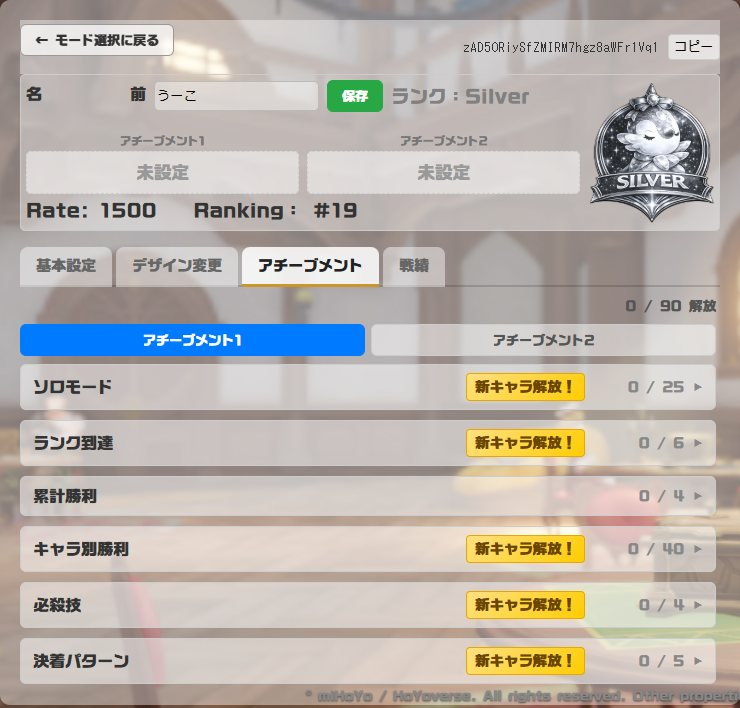
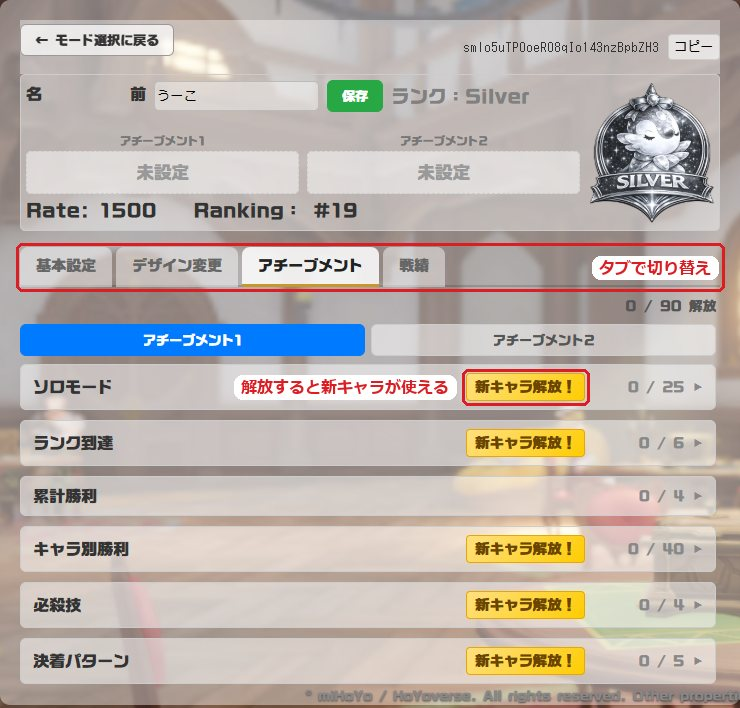
v1.80.1: あそびかたの画像に赤枠と赤文字の補足を追加(日英で別画像)
- トップ・キャラ選択・マッチング・対戦画面・必殺技・設定の画像に、説明に出てくる場所の赤枠と一言補足
- 補足入りの画像は英語版(xxx_en.jpg)も作り、言語設定で切り替え
- 必殺技のページはカットイン画像をやめ、アイコン・ゲージ・ボタンの部分を大きく表示
- 1ページ目の紹介用は枠なしの battle.jpg、対戦画面のページは battle_ui.jpg
- 枠と補足は tools/help_screenshots.py が画面の要素の位置から描く(--build で撮り直さずに作り直し)
- 画像に ?v= を付けて古い画像が残らないように

diff --git a/public/scripts/helpGuide.js b/public/scripts/helpGuide.js
@@ -6,9 +6,11 @@
 import { getCurrentLang } from './i18n.js';
 
 const IMG = 'public/help/';
+const IMGV = '?v=1.80.1'; // 画像を撮り直したら上げる(同じファイル名なので古い画像が残らないように)
 const BADGE = 'public/scripts/badges/';
 
 // layout: 'wide' = 画像が上・文字が下 / 'tall' = 画像が左・文字が右
+// 画像の赤枠・赤文字の補足は tools/help_screenshots.py で描いている(説明文を変えたらそちらも合わせる)
 const SLIDES = [
   {
     img: 'battle.jpg', layout: 'wide',
@@ -32,7 +34,7 @@ const SLIDES = [
     },
   },
   {
-    img: 'hub.jpg', layout: 'wide',
+    img: 'hub.jpg', imgEn: true, layout: 'wide',
     ja: {
       title: 'トップ画面',
       body: [
@@ -53,7 +55,7 @@ const SLIDES = [
     },
   },
   {
-    img: 'select.jpg', layout: 'tall',
+    img: 'select.jpg', imgEn: true, layout: 'tall',
     ja: {
       title: 'キャラ選択',
       body: [
@@ -74,7 +76,7 @@ const SLIDES = [
     },
   },
   {
-    img: 'match.jpg', layout: 'tall',
+    img: 'match.jpg', imgEn: true, layout: 'tall',
     ja: {
       title: 'マッチング対戦',
       body: [
@@ -114,7 +116,7 @@ const SLIDES = [
     },
   },
   {
-    img: 'battle.jpg', layout: 'wide',
+    img: 'battle_ui.jpg', imgEn: true, layout: 'wide',
     ja: {
       title: '対戦画面',
       body: [
@@ -133,7 +135,7 @@ const SLIDES = [
     },
   },
   {
-    img: 'standby.jpg', img2: 'cutin.jpg', layout: 'wide',
+    img: 'standby.jpg', imgEn: true, layout: 'wide',
     ja: {
       title: '必殺技',
       body: [
@@ -190,7 +192,7 @@ const SLIDES = [
     },
   },
   {
-    img: 'playerinfo.jpg', layout: 'tall',
+    img: 'playerinfo.jpg', imgEn: true, layout: 'tall',
     ja: {
       title: '設定・プレイヤー情報',
       body: [
@@ -237,7 +239,9 @@ function slideHtml(s, i, total) {
     const text = `<h3 class="help-title">${d.title}</h3><ul class="help-body">${d.body.map((b) => `<li>${b}</li>`).join('')}</ul>`;
     let media = '';
     if (s.img) {
-      media = `<div class="help-media"><img src="${IMG}${s.img}" alt="" loading="lazy">${s.img2 ? `<img src="${IMG}${s.img2}" alt="" loading="lazy">` : ''}</div>`;
+      // imgEn: 赤文字の補足が入った画像。英語版は xxx_en.jpg(tools/help_screenshots.py が作る)
+      const src = lang === 'en' && s.imgEn ? s.img.replace('.jpg', '_en.jpg') : s.img;
+      media = `<div class="help-media"><img src="${IMG}${src}${IMGV}" alt="" loading="lazy">${s.img2 ? `<img src="${IMG}${s.img2}${IMGV}" alt="" loading="lazy">` : ''}</div>`;
     } else if (s.layout === 'rank') {
       media = `<div class="help-media">${rankTable(lang)}</div>`;
     }

diff --git a/public/scripts/version.js b/public/scripts/version.js
@@ -1,1 +1,1 @@
-export const APP_VERSION = "v1.80.0";
+export const APP_VERSION = "v1.80.1";

diff --git a/tools/help_screenshots.py b/tools/help_screenshots.py
@@ -4,18 +4,44 @@
 #   1. 10_connect フォルダで  python -m http.server 8123 --bind 127.0.0.1
 #   2. 別の画面で            python tools/help_screenshots.py
 #   → public/help/*.jpg が上書きされる。撮った元画像は tools/_help_raw/ に残る(コミット不要)
+#   赤枠・補足の文字だけ直すときは  python tools/help_screenshots.py --build (撮り直さない)
+#   補足の文字が入った画像は、日本語版(xxx.jpg)と英語版(xxx_en.jpg)を作る
 #
 # Playwright(Python) と Chrome を使う。localhost なので全キャラ解放扱いになる。
 # 開くたびに新しい匿名ユーザーが Firestore に作られる(テストデータ)。
-import asyncio, os
+import asyncio, json, os, sys
 from playwright.async_api import async_playwright
-from PIL import Image
+from PIL import Image, ImageDraw, ImageFont
 
 ROOT = os.path.dirname(os.path.dirname(os.path.abspath(__file__)))
 RAW = os.path.join(ROOT, 'tools', '_help_raw')
 DST = os.path.join(ROOT, 'public', 'help')
 B = 'http://127.0.0.1:8123/'
 VP = {'width': 1366, 'height': 768}
+RED = (220, 30, 36)
+FONT = 'C:/Windows/Fonts/meiryob.ttc'
+
+# 赤枠と赤文字の補足(説明文に出てくるボタンや表示)。boxes.json に保存して build() で描く
+# 1項目 = (セレクタ または [まとめて1枠にするセレクタ...], 日本語の補足, 英語の補足, 補足の位置)
+# セレクタの頭に ~ を付けると、要素の幅ではなく中の文字の幅で囲む
+# 補足の位置: above-l / above-r / below-l / below-r / below-c / left / right / in-br / in-r / in-tc。補足なしは ''
+BOXES = {}
+RECT_JS = """(groups)=>groups.map(g=>{let r=null;
+  for(const sel of g){const el=document.querySelector(sel.replace(/^~/,''));if(!el)continue;
+    let b=el.getBoundingClientRect();
+    if(sel[0]==='~'){const rg=document.createRange();rg.selectNodeContents(el);b=rg.getBoundingClientRect();}
+    if(!b.width||!b.height)continue;
+    r=r?[Math.min(r[0],b.left),Math.min(r[1],b.top),Math.max(r[2],b.right),Math.max(r[3],b.bottom)]:[b.left,b.top,b.right,b.bottom];}
+  return r;})"""
+
+
+async def mark(pg, name, items):
+    sels = [it[0] if isinstance(it[0], list) else [it[0]] for it in items]
+    rects = await pg.evaluate(RECT_JS, sels)
+    BOXES[name] = [{'r': r, 'ja': it[1], 'en': it[2], 'pos': it[3]} for r, it in zip(rects, items) if r]
+    missing = [it[0] for r, it in zip(rects, items) if not r]
+    if missing:
+        print('枠の場所が見つからない:', name, missing)
 
 
 async def shoot():
@@ -28,6 +54,11 @@ async def shoot():
         # トップ
         await pg.goto(B + 'index.html'); await pg.wait_for_timeout(3500)
         await pg.screenshot(path=f'{RAW}/hub.png')
+        await mark(pg, 'hub', [
+            ('#goMatchButton', 'オンラインで対戦（ランク戦）', 'Play online (ranked)', 'left'),
+            ('#goCpuButton', 'CPUと練習・キャラの解放', 'Practice & unlock characters', 'left'),
+            ('#goPlayerInfoButton', 'ランク・戦績・設定など', 'Rank, records, settings', 'left'),
+            ('#hubNewsButton', 'お知らせ', 'News', 'left')])
 
         # キャラ選択(CPU): 2番目のキャラを選ぶ → 挑戦モードに切り替え
         await pg.goto(B + 'select.html?mode=cpu'); await pg.wait_for_timeout(3500)
@@ -36,19 +67,30 @@ async def shoot():
         await pg.fill('#playerName', 'うーこ')
         await pg.mouse.move(5, 400); await pg.wait_for_timeout(300)
         await pg.screenshot(path=f'{RAW}/sel_chosen.png')
+        await mark(pg, 'select', [
+            (['.chara-ct-label', '#characterCharge'], '石1つでたまるゲージ', 'Gauge per stone', 'above-r'),
+            ('.info-item-tate', '必殺技の名前と効果', 'Ultimate name & effect', 'in-br')])
+        await mark(pg, 'cpu', [('#cpuDifficultySelector', '', '', ''), ('#cpuOpponentPicker', '', '', '')])
         await pg.click('#soloModeNext'); await pg.wait_for_timeout(800)
         await pg.mouse.move(5, 400); await pg.screenshot(path=f'{RAW}/sel_challenge1.png')
+        await mark(pg, 'challenge1', [('#soloModePrev', '', '', ''), ('#soloModeNext', '', '', ''), ('#soloModeInfo', '', '', '')])
 
         # キャラ選択(マッチング)
         await pg.goto(B + 'select.html?mode=match'); await pg.wait_for_timeout(3500)
         th = await pg.query_selector_all('#thumbnailContainer > *')
         await th[5].click(); await pg.wait_for_timeout(800)
         await pg.mouse.move(5, 400); await pg.screenshot(path=f'{RAW}/sel_match_chosen.png')
+        await mark(pg, 'match', [
+            ('#matchButton', '押すと相手を探す', 'Press to find an opponent', 'above-r'),
+            (['#roomMatching', '#matchModeBlock .info-item-yoko .label'], '友達と遊ぶときに入力', 'For playing with friends', 'below-r')])
 
         # 設定・プレイヤー情報(アチーブメントのタブ)
         await pg.goto(B + 'playerInfo.html'); await pg.wait_for_timeout(3500)
         await pg.click('[data-pi-tab="ach"]'); await pg.wait_for_timeout(1500)
         await pg.screenshot(path=f'{RAW}/pi_ach.png')
+        await mark(pg, 'playerinfo', [
+            ('.pi-tabs', 'タブで切り替え', 'Switch tabs', 'in-r'),
+            ('.new-char-badge', '解放すると新キャラが使える', 'Unlocks a new character', 'left')])
 
         # CPU戦: ナヴィア(004, 1ターン目から必殺技可) vs マダム・ヘルタ(006)。盤面はテスト用の __soloDebug で並べる
         await pg.evaluate("()=>{sessionStorage.setItem('soloPlayerCharaID','004');sessionStorage.setItem('soloCpuCharaID','006');sessionStorage.setItem('soloPlayerName','うーこ');}")
@@ -65,11 +107,22 @@ async def shoot():
         await pg.mouse.move(bb['x'] + bb['width'] * 3.5 / 7, bb['y'] + bb['height'] * 0.3)  # 真ん中の列を光らせる
         await pg.wait_for_timeout(800)
         await pg.screenshot(path=f'{RAW}/b_board.png')
+        await mark(pg, 'battle', [
+            ('~#player1_win', '取ったポイント', 'Points', 'right'),
+            ('~#player2_win', '取ったポイント', 'Points', 'left')])
+        col = [bb['x'] + bb['width'] * 3 / 7, bb['y'], bb['x'] + bb['width'] * 4 / 7, bb['y'] + bb['height']]
+        BOXES['battle'].append({'r': col, 'ja': 'クリックした列に落ちる', 'en': 'Drops in the column you click', 'pos': 'in-tc'})
         await pg.click('#thumbnailContainerP1'); await pg.wait_for_timeout(1000)
         await pg.screenshot(path=f'{RAW}/b_standby.png')
+        await mark(pg, 'standby', [
+            ('#thumbnailContainerP1', '①自分の番にクリック', '1. Click on your turn', 'below-l'),
+            (['#playerGauge1', '#chargeGageNow_1', '#chargeGageMax_1'], '150以上で使える', 'Ready at 150+', 'right'),
+            ('#specialMoveButton', '②押すと発動', '2. Press to use', 'below-c')])
         await pg.click('#specialMoveButton'); await pg.wait_for_timeout(1000)
         await pg.screenshot(path=f'{RAW}/b_cutin.png')
         await br.close()
+    with open(f'{RAW}/boxes.json', 'w', encoding='utf-8') as f:
+        json.dump(BOXES, f, ensure_ascii=False, indent=1)
 
 
 def save(name, im, width=None):
@@ -80,23 +133,73 @@ def save(name, im, width=None):
     print(name, im.size)
 
 
+def boxed(im, items, lang, width=4, size=16, clip=None, pad=4):
+    """元画像(撮ったときの座標)に赤枠と補足を描く。width と size は縮小後の見た目に合わせて渡す"""
+    im = im.convert('RGB')
+    d = ImageDraw.Draw(im)
+    font = ImageFont.truetype(FONT, size)
+    cx0, cy0, cx1, cy1 = clip or (0, 0, im.width, im.height)
+    for it in items:
+        x0, y0, x1, y1 = it['r']
+        x0, y0, x1, y1 = x0 - pad, y0 - pad, x1 + pad, y1 + pad
+        d.rounded_rectangle((x0, y0, x1, y1), radius=6, outline=RED, width=width)
+        text = it.get(lang)
+        if not text:
+            continue
+        l, t, r, b = d.textbbox((0, 0), text, font=font)
+        mx, my = round(size * 0.45), round(size * 0.25)
+        w, h = r - l + mx * 2, b - t + my * 2
+        g = width + 3  # 枠と補足のすき間
+        pos = it['pos']
+        if pos == 'left':
+            x, y = x0 - g - w, (y0 + y1 - h) / 2
+        elif pos == 'right':
+            x, y = x1 + g, (y0 + y1 - h) / 2
+        elif pos.startswith('above'):
+            x, y = (x0 if pos == 'above-l' else x1 - w), y0 - g - h
+        elif pos.startswith('below'):
+            x = x0 if pos == 'below-l' else (x1 - w if pos == 'below-r' else (x0 + x1 - w) / 2)
+            y = y1 + g
+        elif pos == 'in-br':
+            x, y = x1 - g - w, y1 - g - h
+        elif pos == 'in-r':
+            x, y = x1 - g - w, (y0 + y1 - h) / 2
+        else:  # in-tc
+            x, y = (x0 + x1 - w) / 2, y0 + g + 4
+        x = min(max(x, cx0 + 2), cx1 - w - 2)
+        y = min(max(y, cy0 + 2), cy1 - h - 2)
+        d.rounded_rectangle((x, y, x + w, y + h), radius=round(h / 3), fill=(255, 255, 255))
+        d.text((x + mx - l, y + my - t), text, font=font, fill=RED)
+    return im
+
+
 def build():
     o = lambda f: Image.open(os.path.join(RAW, f))
-    save('hub', o('hub.png'), 1100)
-    save('select', o('sel_chosen.png').crop((60, 36, 462, 752)))
-    save('match', o('sel_match_chosen.png').crop((60, 36, 462, 752)))
-    save('playerinfo', o('pi_ach.png').crop((329, 60, 1069, 768)))
-    save('battle', o('b_board.png'), 1100)
-    save('standby', o('b_standby.png'), 1100)
-    save('cutin', o('b_cutin.png'), 1100)
-    # CPU対戦の設定部分と、挑戦モードに切り替えた部分をつなげる
-    a = o('sel_chosen.png').convert('RGB').crop((60, 566, 462, 716))
-    b = o('sel_challenge1.png').convert('RGB').crop((60, 566, 462, 662))
+    with open(os.path.join(RAW, 'boxes.json'), encoding='utf-8') as f:
+        bx = json.load(f)
+    TALL = (60, 36, 462, 752)
+    PI = (329, 60, 1069, 768)
+    SB = (0, 0, 1100, 300)
+    for lang in ('ja', 'en'):
+        sfx = '' if lang == 'ja' else '_en'
+        # 横長の画像は 1366→1100 に縮むので、枠と文字は少し大きめに描く
+        save('hub' + sfx, boxed(o('hub.png'), bx['hub'], lang, 4, 28), 1100)
+        save('battle_ui' + sfx, boxed(o('b_board.png'), bx['battle'], lang, 4, 28), 1100)
+        # 必殺技のページはアイコン・ゲージ・ボタンのある左上だけを大きく見せる
+        save('standby' + sfx, boxed(o('b_standby.png'), bx['standby'], lang, 4, 24, SB).crop(SB))
+        save('select' + sfx, boxed(o('sel_chosen.png'), bx['select'], lang, 3, 15, TALL).crop(TALL))
+        save('match' + sfx, boxed(o('sel_match_chosen.png'), bx['match'], lang, 3, 15, TALL).crop(TALL))
+        save('playerinfo' + sfx, boxed(o('pi_ach.png'), bx['playerinfo'], lang, 3, 16, PI).crop(PI))
+    save('battle', o('b_board.png'), 1100)  # 1ページ目(全体の紹介)は枠なし
+    # CPU対戦の設定部分と、挑戦モードに切り替えた部分をつなげる(枠だけ。補足の文字を置く場所がない)
+    a = boxed(o('sel_chosen.png'), bx['cpu'], 'ja', 2).crop((60, 566, 462, 716))
+    b = boxed(o('sel_challenge1.png'), bx['challenge1'], 'ja', 2).crop((60, 566, 462, 662))
     im = Image.new('RGB', (a.width, a.height + 14 + b.height), (255, 255, 255))
     im.paste(a, (0, 0)); im.paste(b, (0, a.height + 14))
     save('challenge', im.resize((im.width * 3 // 2, im.height * 3 // 2), Image.LANCZOS))
 
 
 if __name__ == '__main__':
-    asyncio.run(shoot())
+    if '--build' not in sys.argv:  # --build なら撮影せず、前回撮った画像から作り直す
+        asyncio.run(shoot())
     build()
